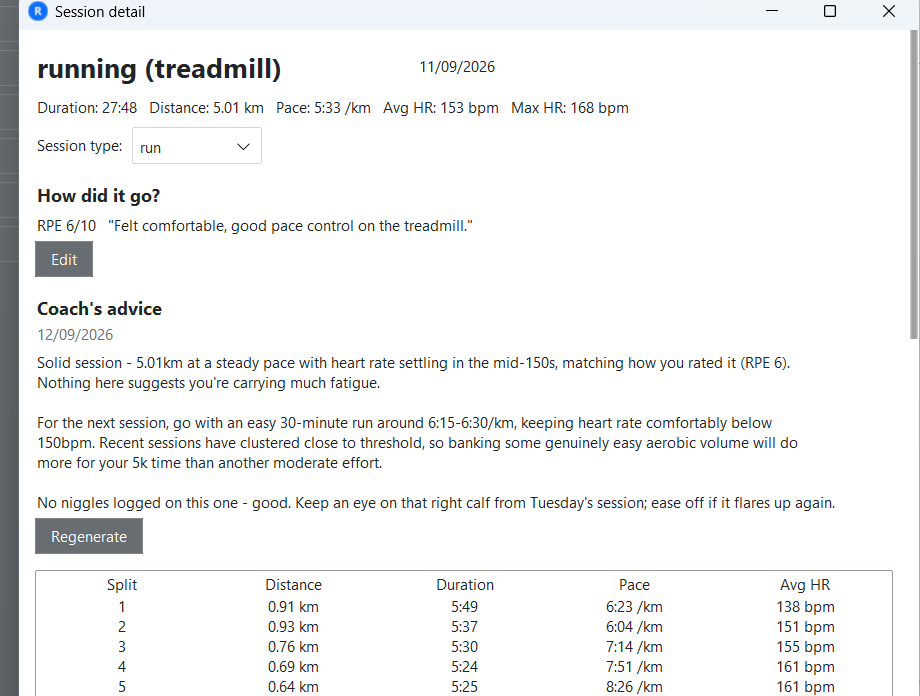
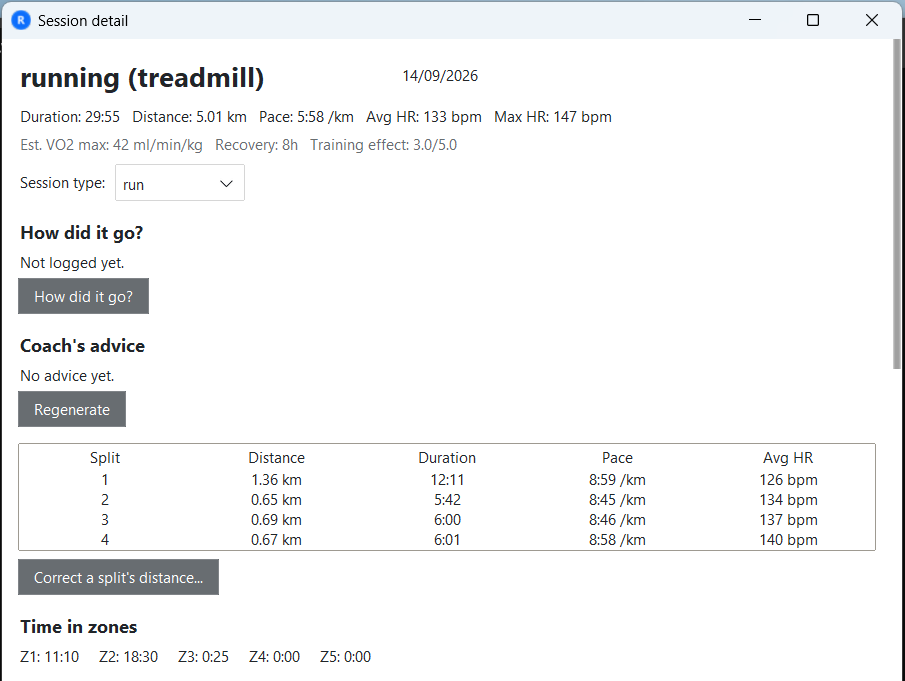
Update README with new feature screenshots; fix clipped dialog buttons
README: refreshed Features list and Roadmap for the HRM fields, split
distance correction, and weight/height tracking shipped since v0.1.0.
Updated session_detail_1.png to show the new recovery/VO2max/training
effect line and the "Correct a split's distance..." button; added
correct_split_distance.png and a new Body screenshot section.

While capturing those screenshots, found that LogWeightDialog and
CorrectSplitDistanceDialog were both too short for their content -
the Save/Cancel buttons rendered their colored background but the
label text was clipped to nothing. Fixed by giving both dialogs
enough height.

Changed region(s): [[0.0, 0.0, 0.9591, 1.0], [0.8044, 0.0, 1.0, 1.0]]

diff --git a/eps_runcoach/ui_tk/pages/correct_split_distance.py b/eps_runcoach/ui_tk/pages/correct_split_distance.py
@@ -23,7 +23,7 @@ class CorrectSplitDistanceDialog(tb.Toplevel):
         splits: list[sqlite3.Row],
         on_done: Callable[[], None] | None = None,
     ):
-        super().__init__(title="Correct a split's distance", size=(420, 220))
+        super().__init__(title="Correct a split's distance", size=(480, 280))
         self.app = app
         self.session_id = session_id
         self.splits = [s for s in splits if s["distance_km"]]
@@ -35,7 +35,7 @@ class CorrectSplitDistanceDialog(tb.Toplevel):
 
         split_row = tb.Frame(self)
         split_row.pack(fill="x", padx=16, pady=4)
-        tb.Label(split_row, text="Split:", width=14, anchor="w").pack(side="left")
+        tb.Label(split_row, text="Split:", width=20, anchor="w").pack(side="left")
         split_labels = [f"{s['split_index']} - currently {format_distance(s['distance_km'])}" for s in self.splits]
         self.split_var = tk.StringVar(value=split_labels[0] if split_labels else "")
         tb.Combobox(
@@ -44,7 +44,7 @@ class CorrectSplitDistanceDialog(tb.Toplevel):
 
         distance_row = tb.Frame(self)
         distance_row.pack(fill="x", padx=16, pady=4)
-        tb.Label(distance_row, text="True distance (km):", width=14, anchor="w").pack(side="left")
+        tb.Label(distance_row, text="True distance (km):", width=20, anchor="w").pack(side="left")
         self.distance_var = tk.StringVar()
         tb.Entry(distance_row, textvariable=self.distance_var, width=10).pack(side="left", padx=8)
 

diff --git a/eps_runcoach/ui_tk/pages/log_weight.py b/eps_runcoach/ui_tk/pages/log_weight.py
@@ -16,7 +16,7 @@ from eps_runcoach.core.formatting import parse_ddmmyyyy_to_iso_date
 
 class LogWeightDialog(tb.Toplevel):
     def __init__(self, app, on_done: Callable[[], None] | None = None):
-        super().__init__(title="Log weight", size=(360, 220))
+        super().__init__(title="Log weight", size=(380, 280))
         self.app = app
         self.on_done = on_done
 

diff --git a/README.md b/README.md
@@ -10,12 +10,14 @@ Built for one person's own training data, on their own machine. Nothing is uploa
 
 - **Import** FIT files exported from a Suunto watch (or dropped into a watched inbox folder), with duplicate detection and automatic backups.
 - **Sessions** table — sortable, at a glance: date, type, duration, distance, pace, heart rate.
-- **Session detail** — splits, time-in-heart-rate-zones, pace and heart-rate charts, and your own notes.
+- **Session detail** — splits, time-in-heart-rate-zones, pace and heart-rate charts, your own notes, and (with a compatible heart rate monitor like a Polar H10) estimated VO2 max, recovery time and training effect.
+- **Correct a split's distance** — fix a lap's distance when a treadmill's own distance estimate was badly miscalibrated; its pace and the pace chart recalculate properly, with the correction backed up automatically.
 - **How did it go?** — log effort (RPE), free-text notes, and niggles (with body location, side and severity) after any session.
 - **Dashboard** — estimated 5k time vs your goal, fitness/fatigue/form trend, weekly distance and training load, and aerobic efficiency over time.
 - **Niggles tracking** — severity-over-time chart per body location, so a nagging ache doesn't sneak up on you.
+- **Body** — log your weight over time with a trend chart, plus a height setting; both feed into the AI coach's context.
 - **AI Insights** — ask an AI coach for a review of everything since it last checked in: what changed, what to do next, and a history of past check-ins. Manually invoked, not automatic — nothing gets sent anywhere without you asking for it.
-- **Settings** — inbox folder, heart rate zones, 5k goal, AI coach model and API key, database backups, and a full CSV export of your data.
+- **Settings** — inbox folder, heart rate zones, height, 5k goal, AI coach model and API key, database backups, and a full CSV export of your data.
 
 ## Privacy
 
@@ -39,6 +41,7 @@ Built for one person's own training data, on their own machine. Nothing is uploa
 
 ![Session detail - stats, notes, coach's advice, splits](docs/screenshots/session_detail_1.png)
 ![Session detail - heart rate chart](docs/screenshots/session_detail_2.png)
+![Correcting a split's distance](docs/screenshots/correct_split_distance.png)
 
 </details>
 
@@ -55,6 +58,13 @@ Built for one person's own training data, on their own machine. Nothing is uploa
 
 ![Niggles page](docs/screenshots/niggles.png)
 ![AI Insights page](docs/screenshots/ai_insights.png)
+
+</details>
+
+<details>
+<summary>Body</summary>
+
+![Body page - weight trend and log](docs/screenshots/body.png)
 
 </details>
 
@@ -127,9 +137,7 @@ Currently **Windows only**. The core logic and UI (tkinter/ttkbootstrap/matplotl
 
 Not built yet, in no particular order:
 
-- [ ] Weight tracking
 - [ ] Body fat % tracking
-- [ ] Height tracking
 - [ ] Others (TBD)
 
 See `RunCoach_Build_Plan.md` for the fuller nice-to-haves list.
